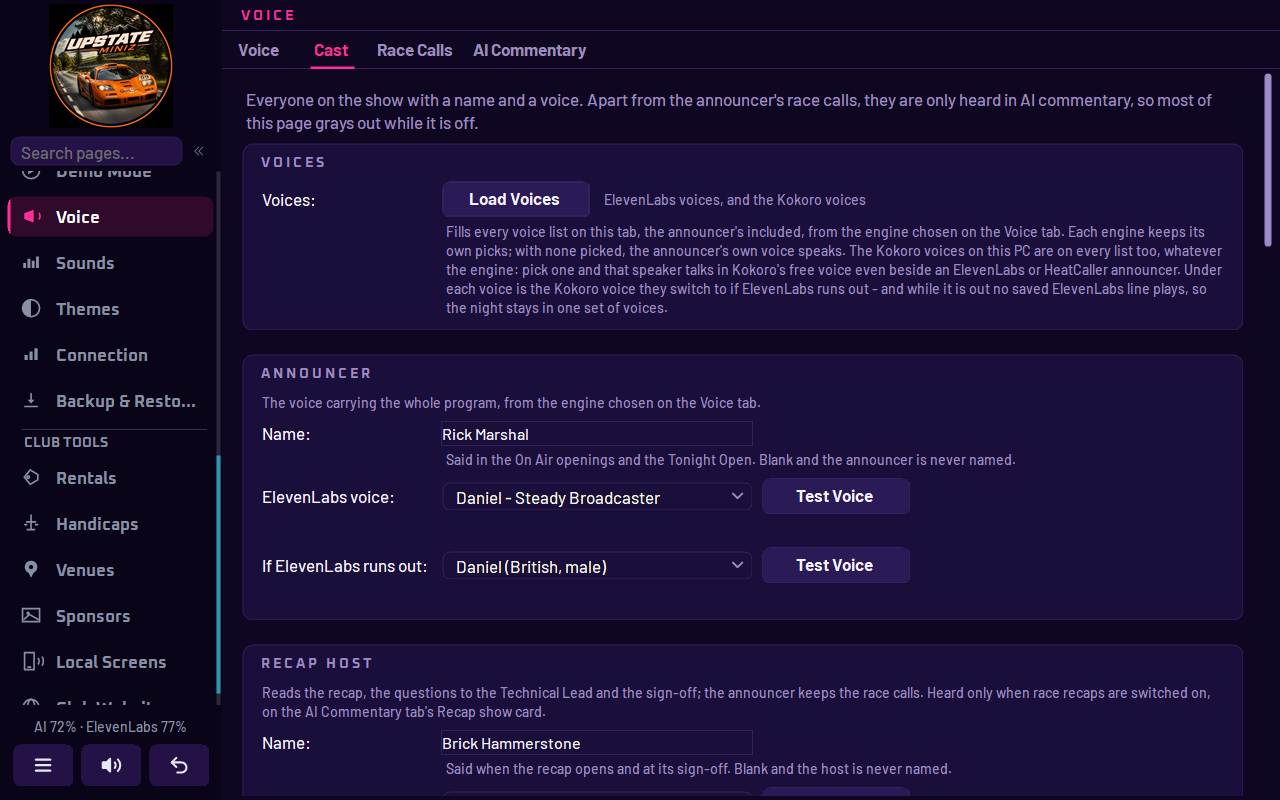
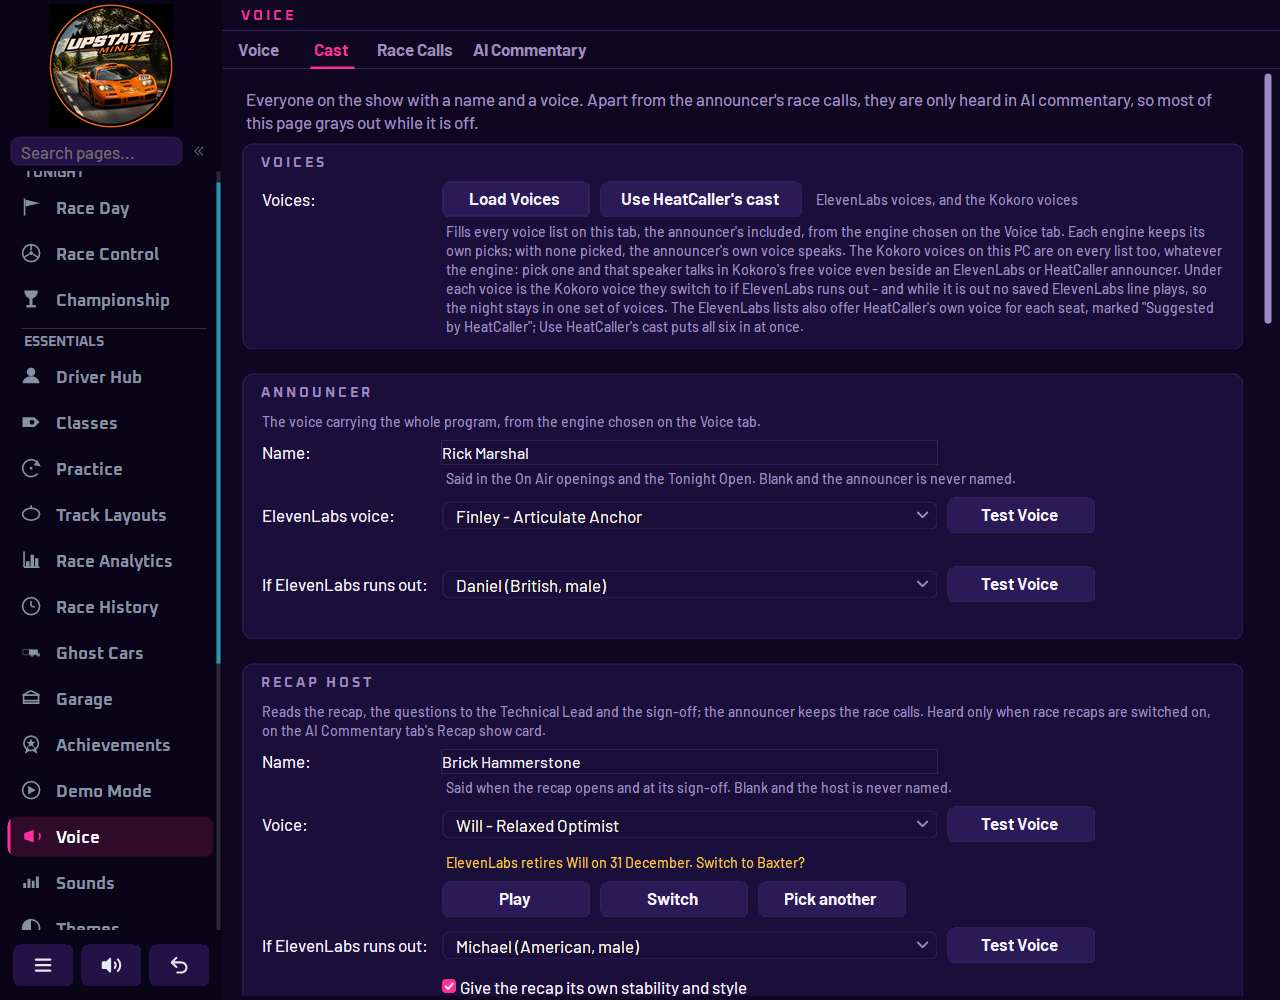
Docs: the Cast screenshot shows HeatCaller's suggested cast and a retiring voice
Retaken at 1280x1000 so the Recap host's retirement line fits under the
Voices and Announcer cards: Use HeatCaller's cast beside Load Voices, and
"ElevenLabs retires Will on 31 December. Switch to Baxter?" with Play,
Switch and Pick another. The alt text says what the picture shows.

Changed region(s): [[0.0, 0.0, 0.9688, 1.0], [0.9688, 0.0625, 1.0, 0.0938], [0.2188, 0.25, 0.25, 0.2812]]

diff --git a/website/docs/announcer/voice.md b/website/docs/announcer/voice.md
@@ -43,7 +43,7 @@ The announcer's voice itself is picked on **Voice → Cast**, on the **Announcer
 
 **Name:** is at the top of the same card, above the voice: it's said in the On Air openings and the Tonight Open, and left blank the announcer is never named.
 
-![Voice, Cast tab: the Voices card with Load Voices, the Announcer card with its Name, an ElevenLabs voice and the Kokoro voice under If ElevenLabs runs out, and the Recap host card](../assets/images/voice-cast.png)
+![Voice, Cast tab: the Voices card with Load Voices and Use HeatCaller's cast, the Announcer card with its Name, Finley as the ElevenLabs voice and a Kokoro voice under If ElevenLabs runs out, and the Recap host card on Will with the line "ElevenLabs retires Will on 31 December. Switch to Baxter?" and Play, Switch and Pick another under it](../assets/images/voice-cast.png)
 
 ![Voice tab, Speak with card: ElevenLabs chosen at 77% used, the HeatCaller voice not included for this club yet, and the Kokoro voice ready on this PC and standing by](../assets/images/voice-voice.png)
 
